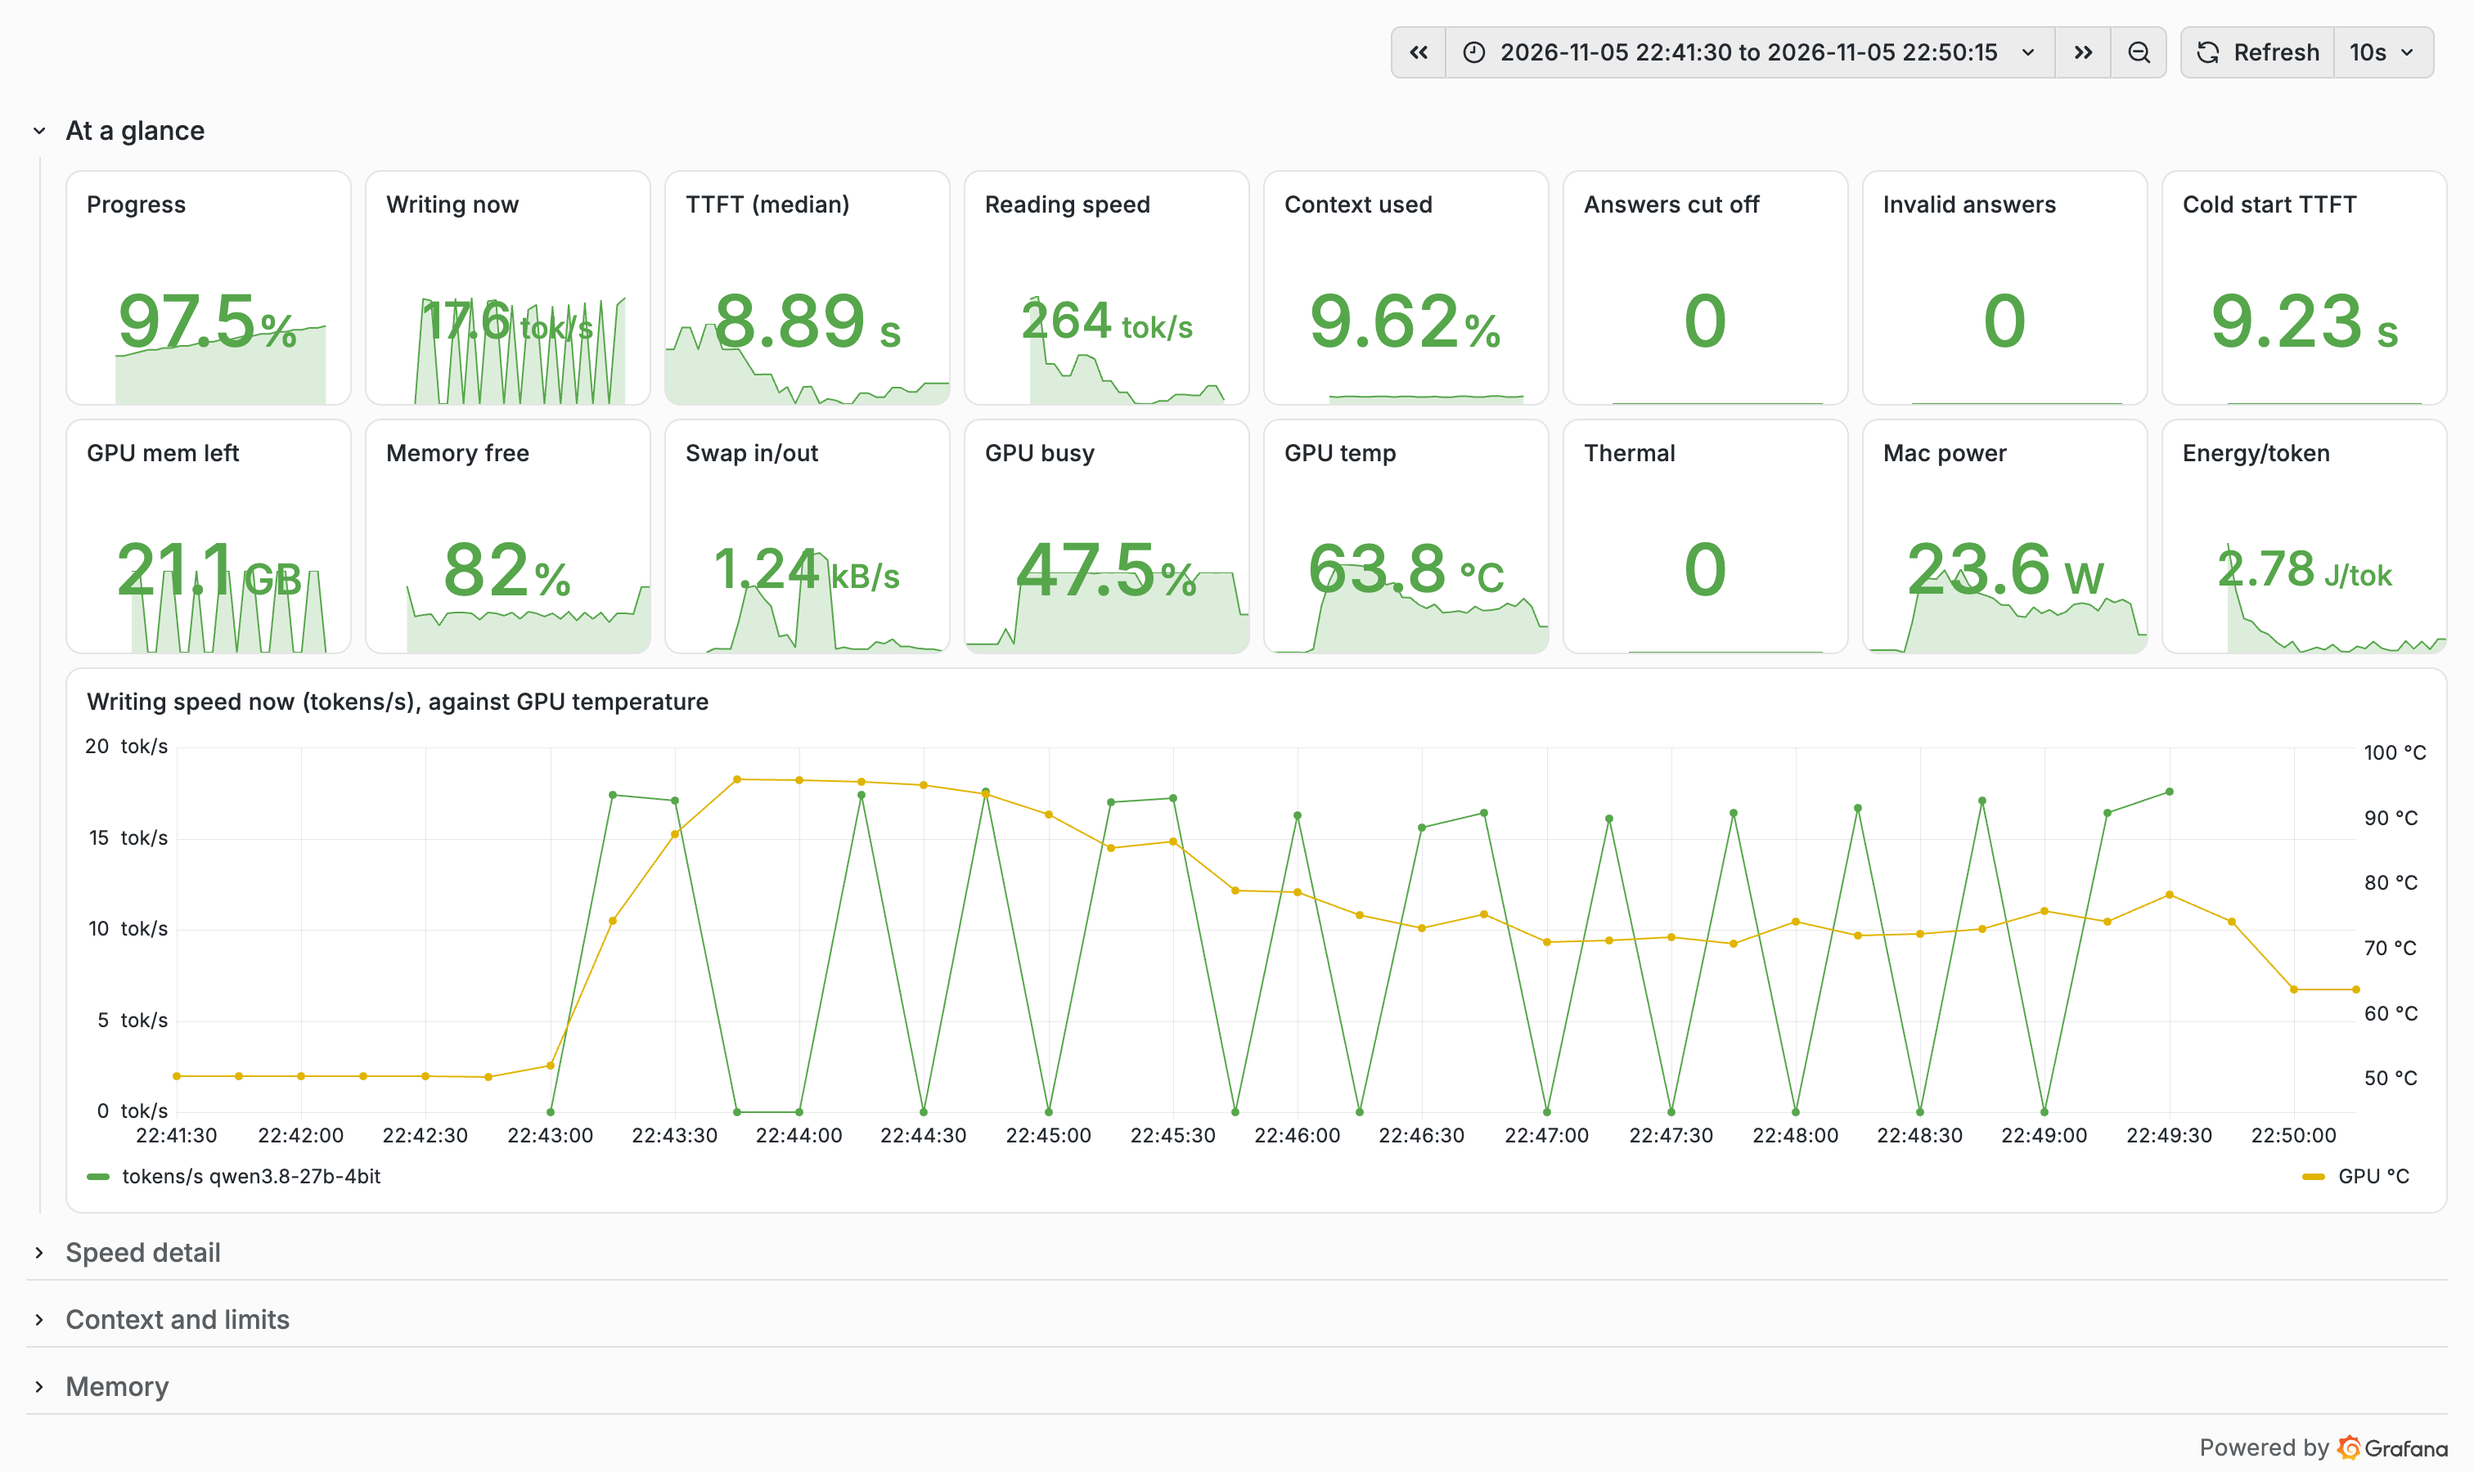
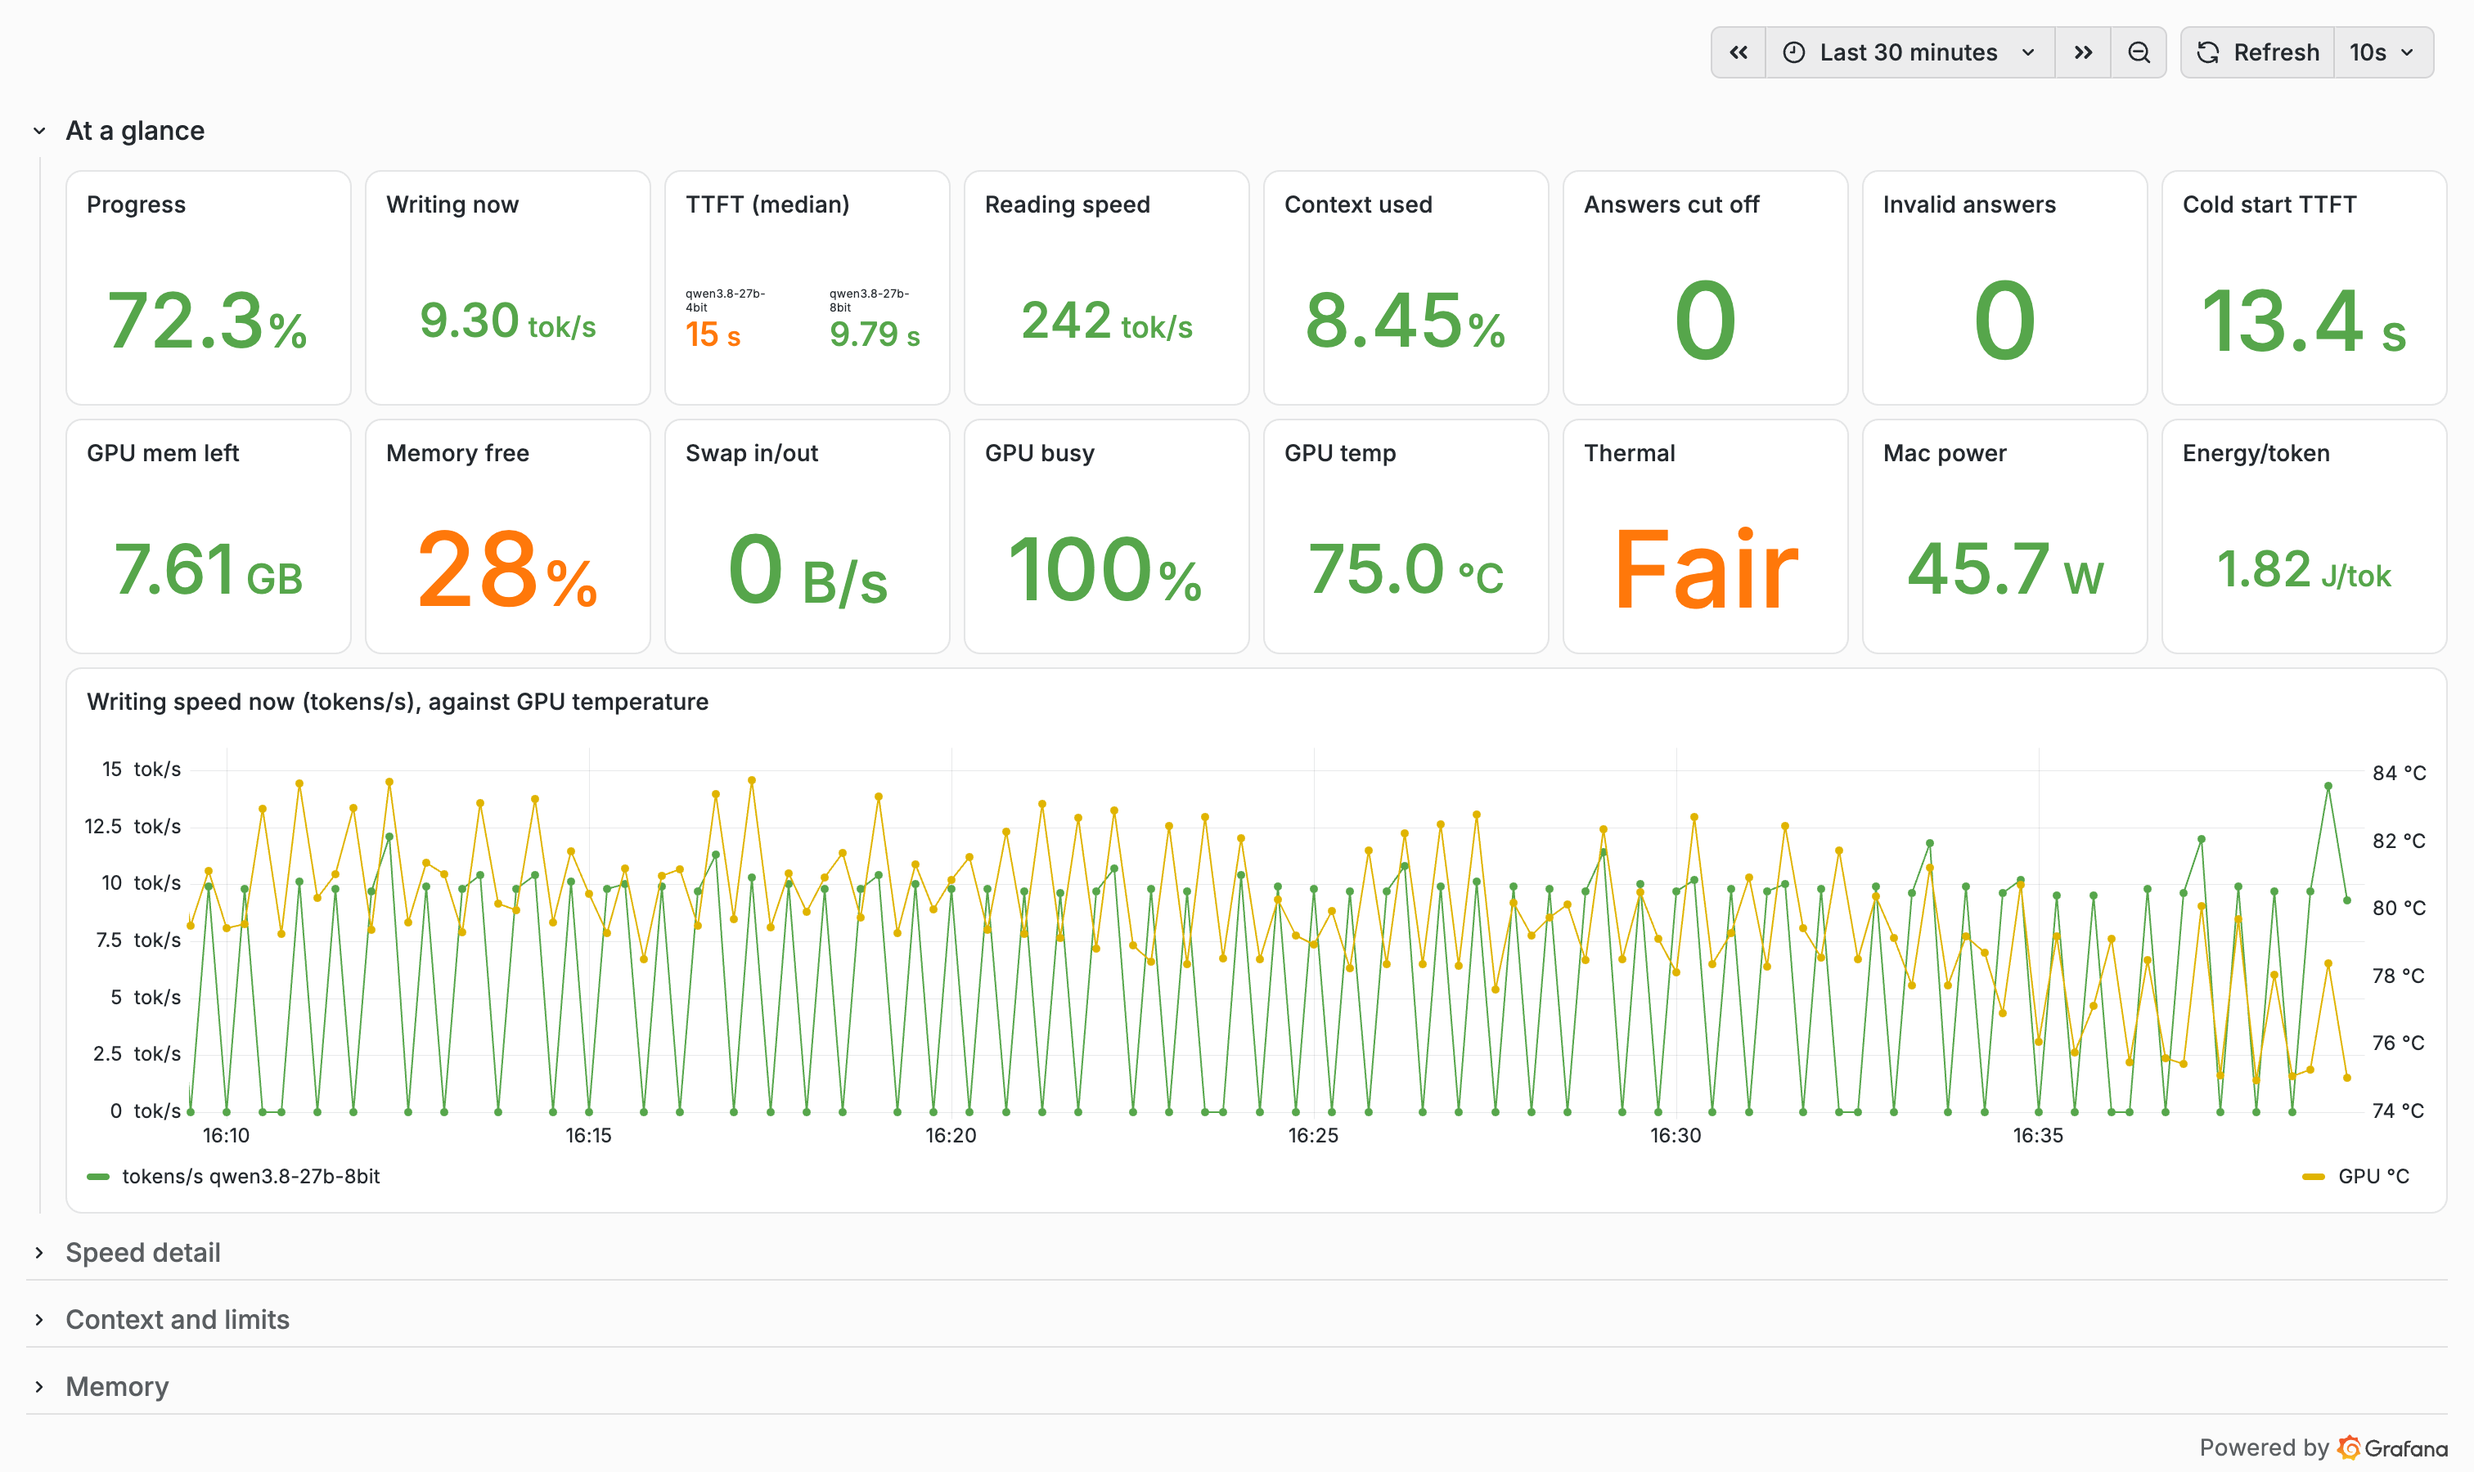
Show the at-a-glance numbers without a graph behind them
The trend line drawn behind each tile made the number hard to read. Tiles now
show the number alone (trends stay in the chart and the folded sections), and
name each model above its number when two models are on the board.
Screenshots retaken.

diff --git a/src/inference_vitals/monitor.py b/src/inference_vitals/monitor.py
@@ -121,7 +121,7 @@ THERMAL_NAMES = ["Nominal", "Fair", "Serious", "Critical"]
 def _stat(
     title, expr, unit, x, y, warn=None, bad=None, legend="{{model_name}}", low_is_bad=False, w=3, names=None
 ):
-    """A big number with a small trend line under it. Colours: amber at `warn` and red at `bad` (or, with
+    """A big number on its own; trends are in the chart below and the folded sections. Colours: amber at `warn` and red at `bad` (or, with
     low_is_bad, red below `bad` and amber below `warn`)."""
     if low_is_bad:
         steps = [
@@ -145,9 +145,9 @@ def _stat(
             {"type": "value", "options": {str(n): {"text": t, "index": n} for n, t in enumerate(names)}}
         )
     p["options"] = {
-        "graphMode": "area",
+        "graphMode": "none",
         "colorMode": "value",
-        "textMode": "value",
+        "textMode": "auto",
         "reduceOptions": {"calcs": ["lastNotNull"], "fields": "", "values": False},
     }
     return p

diff --git a/tests/test_monitor.py b/tests/test_monitor.py
@@ -139,3 +139,11 @@ def test_the_thermal_tile_is_live_and_named():
         for v in range(4)
     }
     assert names == {"Nominal", "Fair", "Serious", "Critical"}
+
+
+def test_tiles_show_plain_numbers_with_no_graph_behind_them_and_name_each_model():
+    tiles = [p for p in monitor.dashboard()["panels"] if p.get("type") == "stat"]
+    assert len(tiles) == 16
+    for t in tiles:
+        assert t["options"]["graphMode"] == "none", t["title"]
+        assert t["options"]["textMode"] == "auto", t["title"]  # a name above each number when two models show

diff --git a/README.md b/README.md
@@ -21,7 +21,7 @@ listens on `127.0.0.1` only.
 
 ## What it shows
 
-**At a glance**, sixteen numbers with a trend line each, and one chart:
+**At a glance**, sixteen numbers and one chart:
 
 | The run | The Mac |
 | --- | --- |
